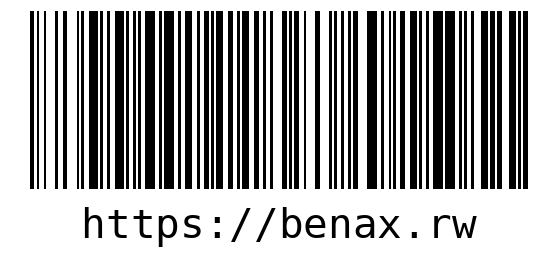
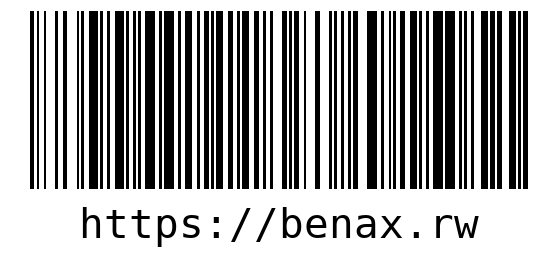
Codes generation

Changed region(s): [[0.5484, 0.7714, 0.8835, 0.8571], [0.1219, 0.7429, 0.3961, 0.8857]]

diff --git a/Decoding/generate_barcode.py b/Decoding/generate_barcode.py
@@ -1,32 +1,18 @@
-# import barcode
-# from barcode.writer import ImageWriter
-#
-# # Define the data for the barcode
-# data = "https://benax.rw"
-#
-# # Specify the barcode type (e.g., 'ean13', 'code128', 'upc', etc.)
-# barcode_type = "code128"
-#
-# # Generate the barcode with an image writer
-# barcode_class = barcode.get_barcode_class(barcode_type)
-# barcode_instance = barcode_class(data, writer=ImageWriter())
-#
-# # Save the barcode as an image
-# output_filename = "barcode"
-# barcode_instance.save(output_filename)
-#
-# print(f"Barcode saved as {output_filename}.png")
+import barcode
+from barcode.writer import ImageWriter
 
-# import EAN13 from barcode module
-from barcode import EAN13
+# Define the data for the barcode
+data = "https://benax.rw" 
 
-# Make sure to pass the number as string
-number = '5901234123457'
+# Specify the barcode type (e.g., 'ean13', 'code128', 'upc', etc.)
+barcode_type = "code128"
 
-# Now, let's create an object of EAN13
-# class and pass the number
-my_code = EAN13(number)
+# Generate the barcode with an image writer
+barcode_class = barcode.get_barcode_class(barcode_type)
+barcode_instance = barcode_class(data, writer=ImageWriter())
 
-# Our barcode is ready. Let's save it.
-my_code.save("new_code")
+# Save the barcode as an image
+output_filename = "barcode"
+barcode_instance.save(output_filename)
 
+print(f"Barcode saved as {output_filename}.png")

diff --git a/Decoding/03_pdf417_decoder.py b/Decoding/03_pdf417_decoder.py
@@ -8,7 +8,7 @@ javase_jar = "javase-3.5.0.jar"
 core_jar = "core-3.5.0.jar"
 jcommander_jar = "jcommander-1.82.jar"
 
-barcode_image = "id-gabriel.png"
+barcode_image = "pdf417_code.png"
 
 # Validate required files
 for file in [javase_jar, core_jar, jcommander_jar, barcode_image]:
@@ -20,7 +20,7 @@ for file in [javase_jar, core_jar, jcommander_jar, barcode_image]:
 docker_command = [
     "docker", "run", "--rm",
     "-v", f"{os.getcwd()}:/app",
-    "openjdk:17",
+    "openjdk:21",
     "java", "-cp",
     f"/app/{javase_jar}:/app/{core_jar}:/app/{jcommander_jar}",
     "com.google.zxing.client.j2se.CommandLineRunner",

diff --git a/Decoding/generate_qrcode.py b/Decoding/generate_qrcode.py
@@ -20,4 +20,4 @@ qr_image = qr.make_image(fill_color="black", back_color="white")
 
 # Save the QR code image
 qr_image.save("qrcode.png")
-print("QR code saved as 'qrcode.png'")
+print("QR code saved as 'qrcode.png'.")
